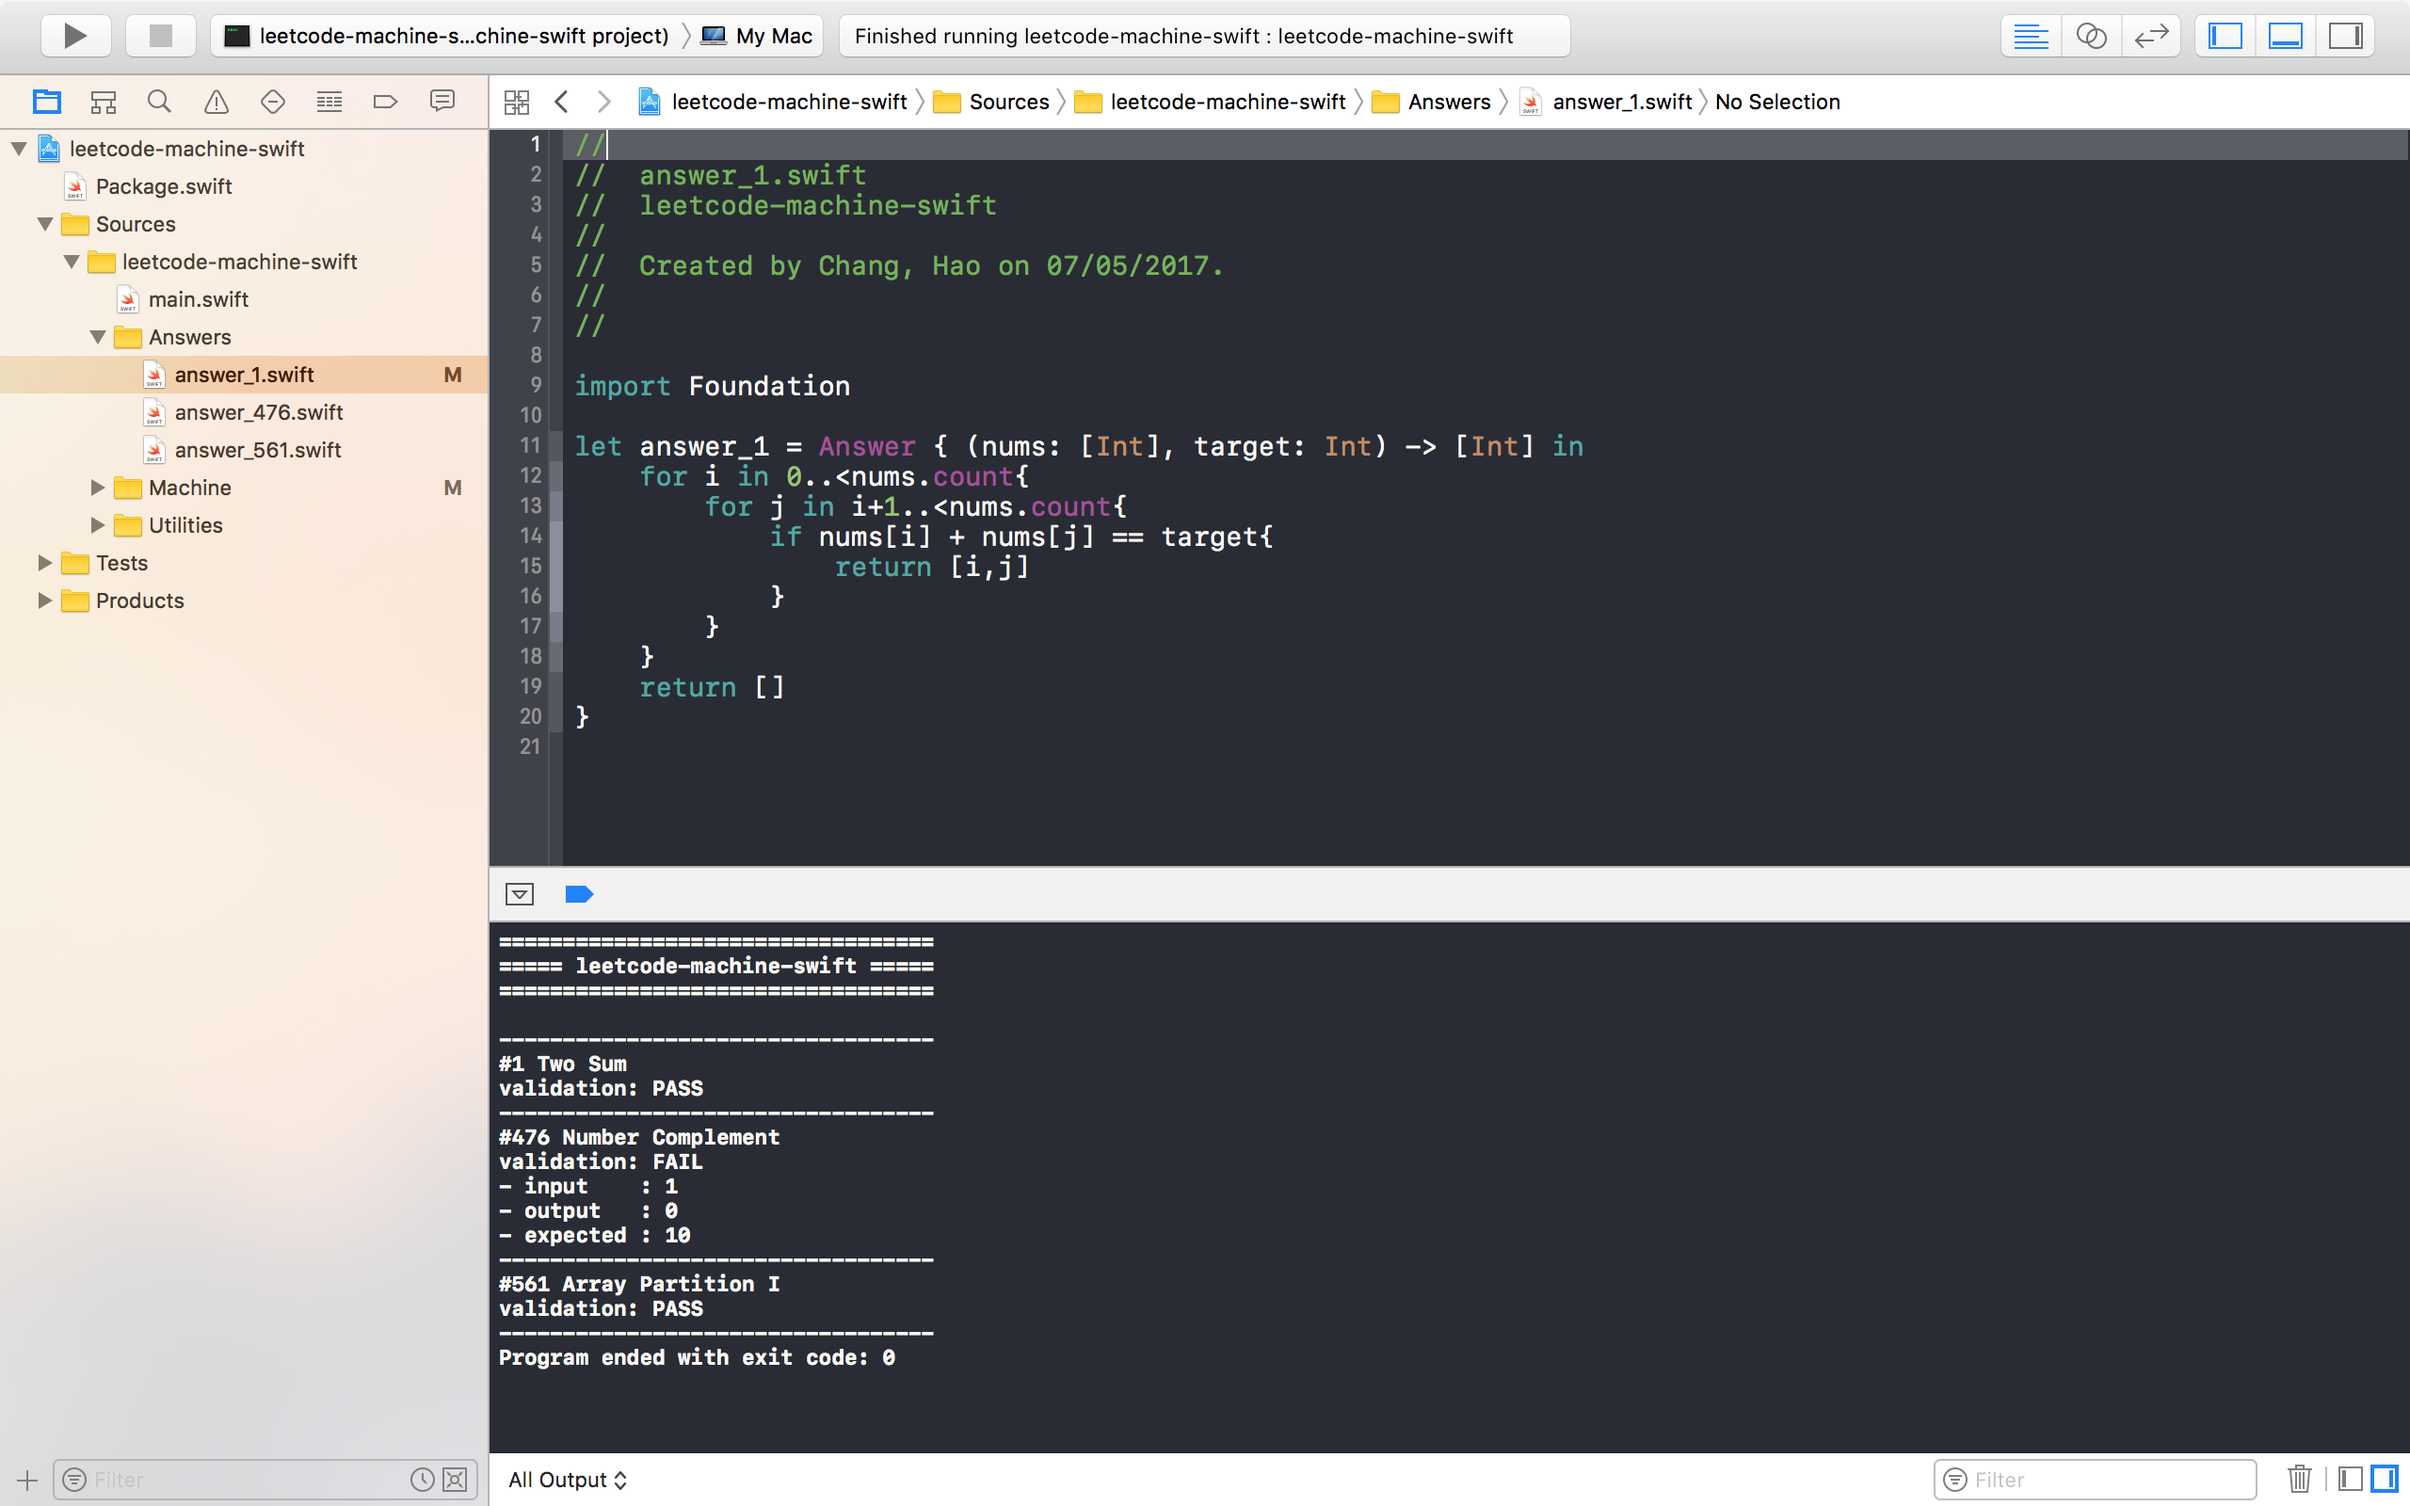
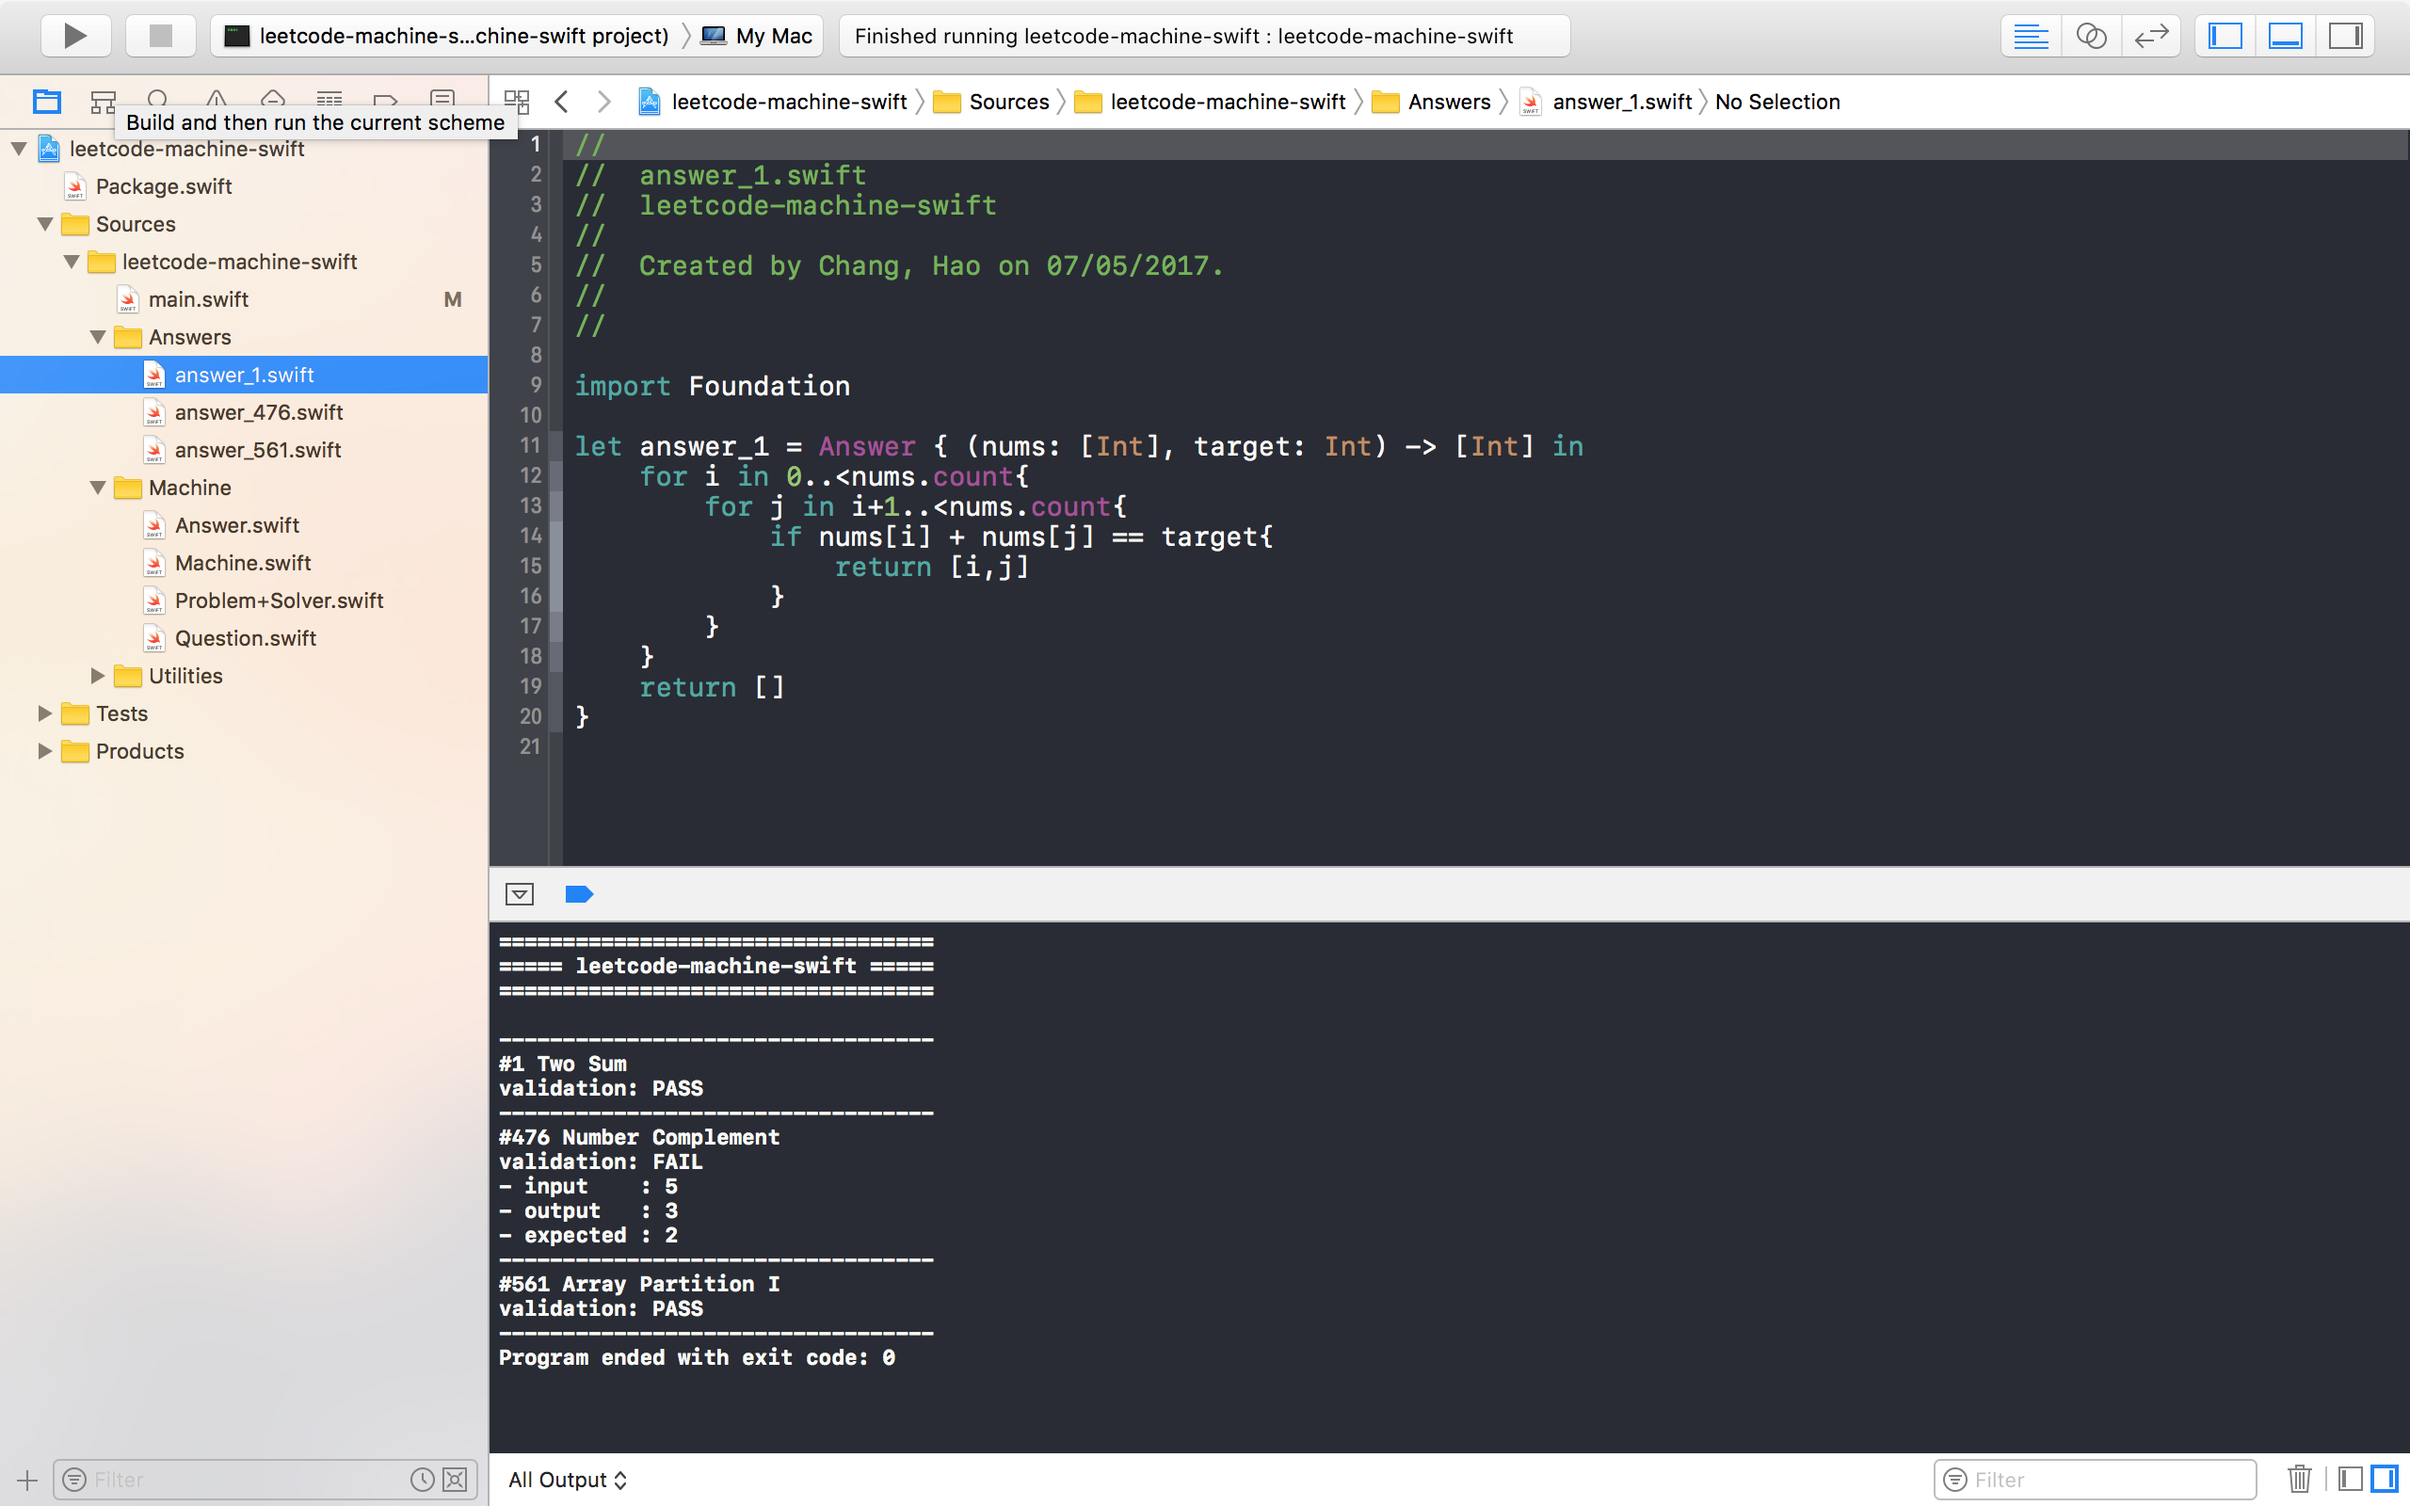
fix wrong problem

Changed region(s): [[0.0, 0.3438, 0.1562, 0.5], [0.0, 0.2188, 0.2188, 0.2812], [0.0312, 0.0625, 0.2188, 0.0938]]

diff --git a/Sources/leetcode-machine-swift/main.swift b/Sources/leetcode-machine-swift/main.swift
@@ -11,7 +11,7 @@ import Foundation
 // set problems
 Machine.problems = [
     1: Question(name: "Two Sum", inputs: [([2,7,11,15], 9)], outputs: [[0, 1]], validation: { return compare($0, $1) }),
-    476 : Question(name: "Number Complement", inputs: [5, 1], outputs: [2, 10]),
+    476 : Question(name: "Number Complement", inputs: [5, 1], outputs: [2, 0]),
     561 : Question(name: "Array Partition I", inputs: [[1,4,3,2]], outputs: [4])
 ]
 
